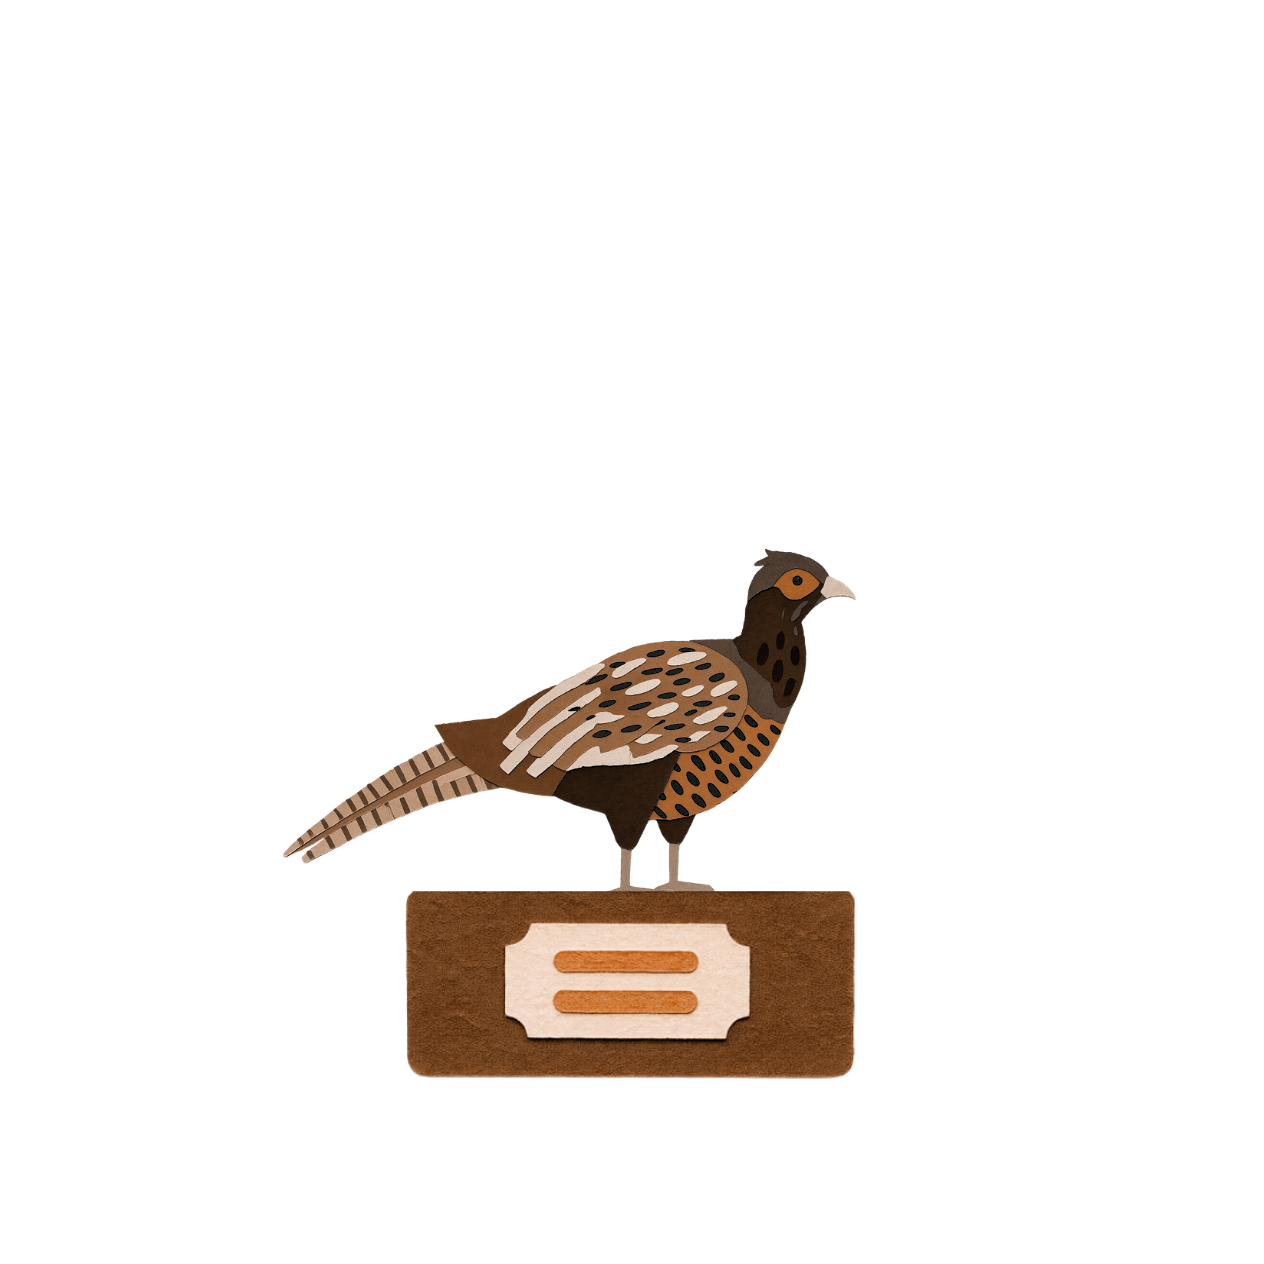
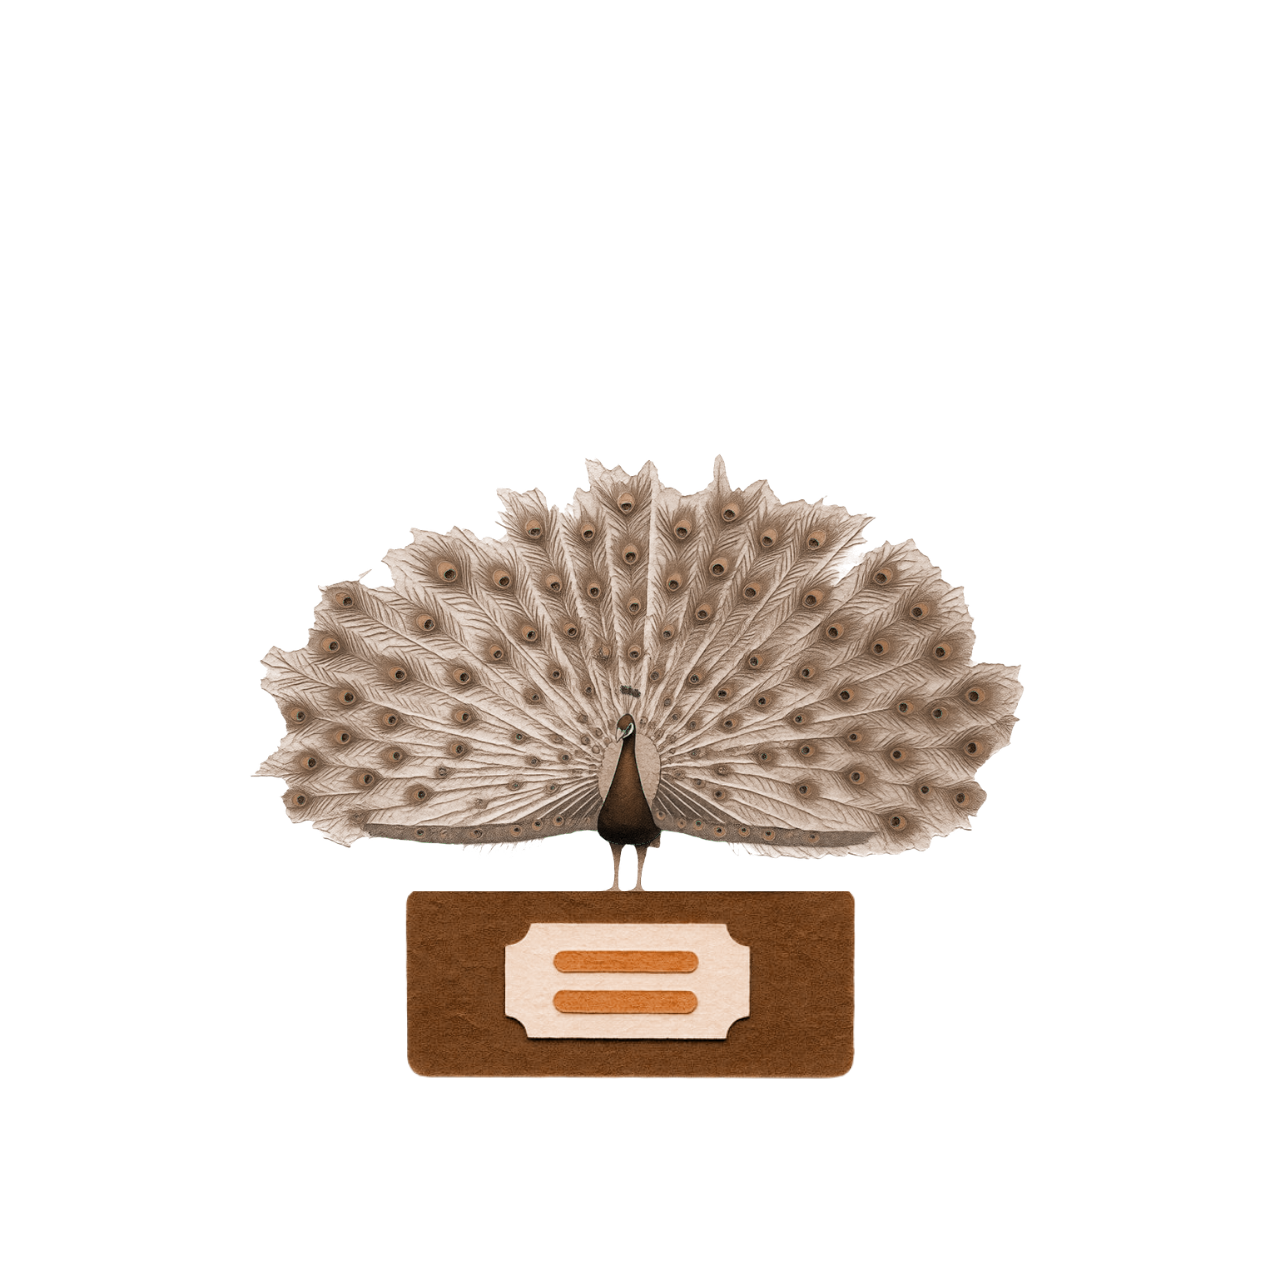
Trophee Galliformes : 6 nouveaux visuels papier-craft Canva theme paon (v2). Cache v186.

Changed region(s): [[0.1851, 0.3703, 0.8331, 0.7097]]

diff --git a/service-worker.js b/service-worker.js
@@ -3,7 +3,7 @@
 //   puis rafraichit en background. Prochain reload = nouvelle version.
 // - Requetes cross-origin (Firestore, iNaturalist, xeno-canto, Wikipedia, etc.) : reseau seul.
 // - Bump CACHE_VERSION quand on veut invalider volontairement.
-const CACHE_VERSION = 'v185-2026-09-15-anatidae-visuel-v2';
+const CACHE_VERSION = 'v186-2026-09-15-galliformes-paon-v2';
 const CACHE_NAME = 'lmb-' + CACHE_VERSION;
 
 self.addEventListener('install', (e) => {
